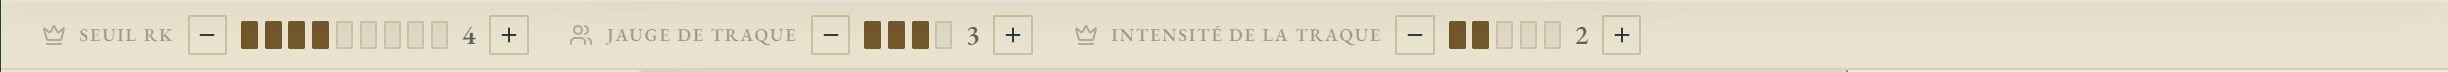
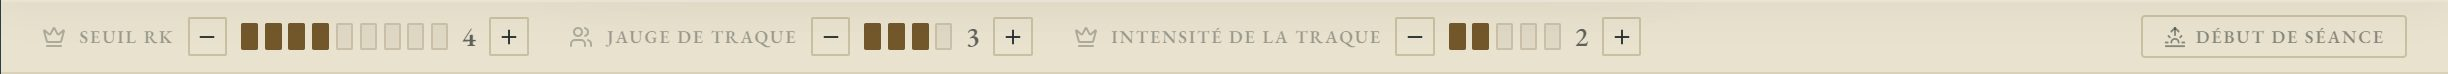
docs(nephilim): les captures du manuel, sorts, Stase, maladresse et Ka dominant
Scènes propres à Nephilim dans e2e/capturesDesJeux.spec.ts, sur le pilote
corrigé et une instance jetable : un sort avec deux degrés de Stase, une
transmutation au Ka d'un construct, une maladresse et sa carte (relancée,
jamais truquée), le Ka dominant et la Stase plafonnée. Cinq images
nouvelles, quatre refaites. Le manuel disait un aperçu pour « Début de
séance » : le geste s'applique aussitôt, corrigé.

diff --git a/e2e/capturesDesJeux.spec.ts b/e2e/capturesDesJeux.spec.ts
@@ -127,10 +127,14 @@ const MISES_EN_SCENE: MiseEnScene[] = [
             simulacrum_name: 'Claire Moreau', simulacrum_ka: 3, simulacrum_experience: 'Infirmière', simulacrum_experience_degree: 5,
             pastlives_0_name: 'Templier', pastlives_0_degree: 4, pastlives_1_name: 'Alchimiste de Prague', pastlives_1_degree: 3,
             falls_khaiba: 2, falls_shadow: 1, falls_narcosis: 0, resources_sapience: 7, stasis_degree: 3,
+            // Le 18/10 : l'Art de Magie, le Ka dominant (Terre 6 : la Stase plafonne à 6), un construct.
+            occult_magic_first: 4, ka_dominant: 'Terre', occult_alchemy_black: 5, alchemy_constructs_retort_water: 3,
+            alchemy_materia_water_max: 9, alchemy_materia_water: 4,
         },
         composantes: ['pastlives_0_degree', 'ka_fire'],
         reserves: { seuilRK: 4, jaugeDeTraque: 3, intensiteDeTraque: 2 },
         casesCochees: 4,
+        scenes: c => scenesDeNephilim(c),
     },
     {
         corpusId: 'cthulhu hack', slug: 'cthulhu-hack', personnage: 'Edith Marsh',
@@ -528,6 +532,58 @@ async function scenesDeNoc(c: ContexteDeScene): Promise<void> {
     const rouage = f.locator('[data-fiel-au-pupitre]');
     await expect(rouage).toBeVisible({ timeout: 15_000 });
     await photographier(panneauDuDernierJet(rouage), 'jeu-noc-rouage');
+}
+
+/**
+ * Nephilim (2026-10-18) : un sort de Magie avec la Stase puisée, la carte d'une
+ * maladresse, une transmutation au Ka d'un construct, le Ka dominant et la
+ * Stase plafonnée. Chaque prise suppose ce que le pilote déclare.
+ */
+async function scenesDeNephilim(c: ContexteDeScene): Promise<void> {
+    const jet = (c.pilote.gameDriver as { jet?: { reservesDuPersonnage?: unknown[]; suitesDesCritiques?: unknown[] } }).jet;
+    const f = gmos.fenetre;
+    await vue(c.campagne, 'players', { joueur: JOUEUR, personnage: c.personnage });
+    const panneau = f.locator('[data-panneau-de-jet]').first();
+    await expect(panneau).toBeVisible({ timeout: 15_000 });
+    const [premier, second] = [panneau.locator('select').nth(0), panneau.locator('select').nth(1)];
+
+    // Un sort de Basse Magie, deux degrés de Stase puisés — rien n'est lancé.
+    if (jet?.reservesDuPersonnage?.length) {
+        await premier.selectOption('occult_magic_first');
+        await second.selectOption('ka_fire');
+        const stase = panneau.getByRole('button', { name: /^Un point de plus : Stase/ });
+        await stase.click();
+        await stase.click();
+        await photographierLePanneau(panneau, 'jeu-nephilim-sort-et-stase');
+        // Relâchés : les relances de la maladresse ne doivent pas les dépenser.
+        const moins = panneau.getByRole('button', { name: /^Un point de moins : Stase/ });
+        await moins.click();
+        await moins.click();
+    }
+
+    // La transmutation : l'Œuvre au noir et le Ka-Eau de la cornue, la formule au curseur. Avant tout lancer.
+    if (await premier.locator('option[value="occult_alchemy_black"]').count() > 0
+        && await second.locator('option[value="alchemy_constructs_retort_water"]').count() > 0) {
+        await premier.selectOption('occult_alchemy_black');
+        await second.selectOption('alchemy_constructs_retort_water');
+        await photographierLePanneau(panneau, 'jeu-nephilim-transmutation');
+    }
+
+    // Une maladresse de Magie et sa carte. Un Art à 1 sans approche : 10 % ; on relance, on ne truque pas.
+    if (jet?.suitesDesCritiques?.length) {
+        await ecrireLaFiche(c, { occult_magic_first: 1 });
+        const lance = await jeterJusqua(c, ['occult_magic_first', ''], p => p.locator('[data-suite-du-critique="maladresse"]'), 80);
+        await photographierLePanneau(lance, 'jeu-nephilim-maladresse');
+        await ecrireLaFiche(c, { occult_magic_first: 4 });
+    }
+
+    // Le Ka dominant et la Stase plafonnée, sur la fiche GM-OS.
+    const section = (titre: string) => f.locator('h3', { hasText: new RegExp(`^${titre}$`) }).first().locator('xpath=..');
+    if (await section('Ka dominant').count() > 0) {
+        await photographier(section('Ka dominant'), 'jeu-nephilim-ka-dominant');
+        await expect(section('Stase et Sapience').locator('[data-plafond]')).toBeVisible();
+        await photographier(section('Stase et Sapience'), 'jeu-nephilim-stase-plafonnee');
+    }
 }
 
 /** Cthulhu Hack : la Fortune sous une Sauvegarde ratée, la suite d'un déclin au pupitre, le Hors Jeu. */

diff --git a/documentation/User Guides/54-Jeu-Nephilim.md b/documentation/User Guides/54-Jeu-Nephilim.md
@@ -1,6 +1,6 @@
 # ✨ Jeu — Nephilim Légende
 
-> **Pilote décrit :** « Nephilim », exporté le 2026-10-18 et corrigé le jour même (Arts occultes au
+> **Pilote décrit :** « Nephilim », exporté le 2026-10-18 et corrigé le jour même — captures du 2026-10-18 (Arts occultes au
 > menu du jet, suites des maladresses et des critiques, rappels d'après l'errata V1.3, Stase et Effet
 > Mnémos au jet, Ka dominant, Alchimie au jet et Materiae Primae à « Début de séance »). Retour à
 > [Les jeux et leurs mécaniques](./53-Les-jeux-et-leurs-mecaniques.md).
@@ -46,6 +46,8 @@ Ka-élément du construct + Art de l'Œuvre − degré de la formule (p. 220) : 
 premier menu, le **Ka du construct** au second, et retirez le **degré de la formule** au curseur.
 Pour une formule de l'Œuvre au blanc, prenez le moins développé des deux Ka du construct.
 
+![Une transmutation : l'Œuvre au noir 5 et le Ka-Eau de la cornue 3, soit 80 % avant le degré de la formule](captures/jeu-nephilim-transmutation.jpg)
+
 Les **Materiae Primae** de l'élément — autant que le degré de la formule — sont consommées sur une
 réussite, un échec ou une maladresse, conservées sur un critique : **retirez-les sur la fiche**. La
 maladresse a sa carte (+1 Khaïba ; le Ka du construct perd 1, à noter sur sa ligne).
@@ -59,11 +61,13 @@ Sous les menus, « Puiser dans ses réserves » propose ce qui convient **au jet
 | **Stase (sort de Magie)** | un cercle de **Magie** est retenu | **+1 degré** de Ka par degré de stase (p. 183) | les degrés engagés, sur la fiche |
 | **Effet Mnémos (1 PS : +2 degrés)** | un **Vécu** est retenu | **+2 degrés**, une fois par test (p. 119) | 1 Point de Sapience |
 
-Les degrés s'ajoutent à la cible, et les chances le disent : `(3 + 2) × 10 = 50 %`. La réserve se
+![Un sort de Basse Magie 4 avec le Ka-Feu 5 et deux degrés de Stase puisés : (4 + 7) × 10 = 110 %](captures/jeu-nephilim-sort-et-stase.jpg)
+
+Les degrés s'ajoutent à la cible, et les chances le disent : `(4 + 7) × 10 = 110 %`. La réserve se
 débite **au lancer, quel que soit le résultat**. Racontez l'Effet Mnémos : de quel Vécu passé vient
 ce souvenir ?
 
-![Après le lancer : 86 contre 90, une réussite de marge 8](captures/jeu-nephilim-jet-lance.jpg)
+![Après le lancer : 82 contre 90, une réussite de marge 8 ; l'Effet Mnémos est proposé sur un Vécu](captures/jeu-nephilim-jet-lance.jpg)
 
 Après le lancer :
 
@@ -84,6 +88,8 @@ marge**, et GM-OS le dit sous les chances.
 Une maladresse ou un critique n'a pas la même suite selon **ce qui a été lancé**. Sous le résultat,
 une carte rappelle la règle, avec sa page, et propose **un bouton** : rien ne s'écrit sur la fiche
 sans vous.
+
+![88 contre 10 sur la Basse Magie : une maladresse, et sa carte « Noter +1 Khaïba »](captures/jeu-nephilim-maladresse.jpg)
 
 | Ce qui a été lancé | Résultat | La carte | Le bouton |
 | :--- | :--- | :--- | :--- |
@@ -122,7 +128,8 @@ qu'un oubli. Si la scène l'exige, reportez la montée à l'aube à la main.
 
 **Début de séance** (au bandeau, meneur) : chaque jauge de **Materiae Primae** revient à son
 maximum, lu sur la fiche (« MP Max ») — elles « reviennent à leur maximum entre chaque session de
-jeu » (p. 219). L'aperçu dit, personnage par personnage, ce qui change avant d'écrire.
+jeu » (p. 219). Le geste s'applique **aussitôt**, sans aperçu ; un message dit combien de fiches
+ont été mises à jour.
 
 ---
 
@@ -160,10 +167,16 @@ Une même valeur n'a qu'un seul endroit où l'écrire (choix de David, 2026-10-1
 
 ### Le Ka dominant et la Stase
 
+![La section Ka dominant : Terre, et son degré calculé, 6](captures/jeu-nephilim-ka-dominant.jpg)
+
 La section **Ka dominant**, sous le Pentacle, porte le **choix** de l'élément dominant (Feu, Air,
 Eau, Lune, Terre) et son **degré**, calculé sur le Pentacle. La **Stase** ne peut pas le dépasser :
 la saisie s'arrête au plafond, affiché à côté (« / 5 ») ; une Stase restée au-dessus (le Ka a baissé)
-s'affiche en rouge. Sur la **fiche HTML** (page 1), le Ka dominant se marque d'un clic **sous le
+s'affiche en rouge.
+
+![La Réserve de Stase à 3, plafonnée à 6 par le Ka dominant](captures/jeu-nephilim-stase-plafonnee.jpg)
+
+Sur la **fiche HTML** (page 1), le Ka dominant se marque d'un clic **sous le
 nom de l'élément**, sur le Pentacle : seul l'élément choisi s'allume, et le choix passe d'une fiche
 à l'autre (après « Sauvegarder »). Le degré et le plafond, eux, ne se calculent que dans GM-OS.
 

diff --git a/documentation/Planning/2026-08-23-chantiers-gares.md b/documentation/Planning/2026-08-23-chantiers-gares.md
@@ -11963,7 +11963,7 @@ Claude Code, à la demande de David : *« on va reprendre les dév sur Nephilim 
 | 74 | **GM-OS Studio** | § 139 ; six ateliers et un accueil dans un plugin privé 0.1.0, 12 contrôles verts et sept skills distants vérifiés | Ajouter le plugin et envoyer « Affiche le menu » | [Livraison et reprise](2026-10-17-etat-et-reprise-codex-gmos-studio.md) |
 | 75 | **Fiche Nephilim — Sciences occultes** | § 140 ; HTML sept pages livré puis intégré dans `6be8ff1a`, 239 clés conservées, 747 nouvelles ; validateur complet sans diagnostic. **18/10** : `ka.dominant` ajouté (`68a05e73`, Codex), raccordé au moteur v10 et à la correspondance (`dd7e3b67`), éprouvé par David | Éprouver en partie | [Livraison et clés exactes](2026-10-17-nephilim-7-pages-livraison.md) |
 | 76 | **Rêve de Dragon — règles et module TMR** | § 141 ; tout le volet RdD (R0–R8) attribué à Codex le 18/10 ; sources récupérées et créditées, aucun développement intégré | Codex : audit du pilote et cadrage du premier lot, coordination avec Claude | Export RdD absent à l’analyse ; édition et barèmes à vérifier ; [reprise](2026-10-18-etat-et-reprise-codex-tmr-sources.md) |
-| 77 | **Nephilim — le jeu à la table** | § 142 ; Arts occultes et suites des critiques au jet, Stase et Effet Mnémos, Ka dominant, Alchimie au jet, 31 époques et 155 Vécus du livre, errata V1.3 dans les règles — commité et éprouvé le 18/10 | Captures du manuel (`e2e/capturesDesJeux.spec.ts`) | Rien ; [reprise au § 15](2026-10-17-chantier-nephilim.md) |
+| 77 | **Nephilim — le jeu à la table** | § 142 ; Arts occultes et suites des critiques au jet, Stase et Effet Mnémos, Ka dominant, Alchimie au jet, 31 époques et 155 Vécus du livre, errata V1.3 dans les règles — commité et éprouvé le 18/10 ; captures du manuel refaites | La fiche sur tablette, sans suggestions de Vécus | Rien ; [reprise au § 15](2026-10-17-chantier-nephilim.md) |
 
 ### Ce que la soirée du 2026-08-23 a fermé
 

diff --git a/documentation/Planning/2026-10-17-chantier-nephilim.md b/documentation/Planning/2026-10-17-chantier-nephilim.md
@@ -395,8 +395,10 @@ dit à l'aube, le manuel le signale) ; Alchimie option A (MP consommées à la m
 
 **Reste**, du plus simple au plus gros :
 1. ~~Le registre~~ — fait le 18/10 au soir : § 142, lignes 75 et 77.
-2. **Les captures** du manuel : menu des Arts, carte des suites, réserves, constructs, Ka dominant
-   (`e2e/capturesDesJeux.spec.ts`).
+2. ~~Les captures du manuel~~ — faites le 18/10 au soir : `scenesDeNephilim` dans
+   `e2e/capturesDesJeux.spec.ts` (sort et Stase, transmutation, maladresse, Ka dominant, Stase
+   plafonnée), cinq images nouvelles et quatre refaites. Le scénario lit `Export Dirvers/` à plat :
+   pointer `GMOS_PILOTES_DES_JEUX` sur un dossier qui ne contient que le pilote corrigé.
 3. **La fiche sur tablette**, sans suggestions de Vécus ni d'époques.
 4. **Lot D, option B** si David le veut : composante « Formule » soustraite, MP débitées seules.
 5. À la main, sans projet : pacte de Kabbale en opposition, seuils des Chutes, malus des
